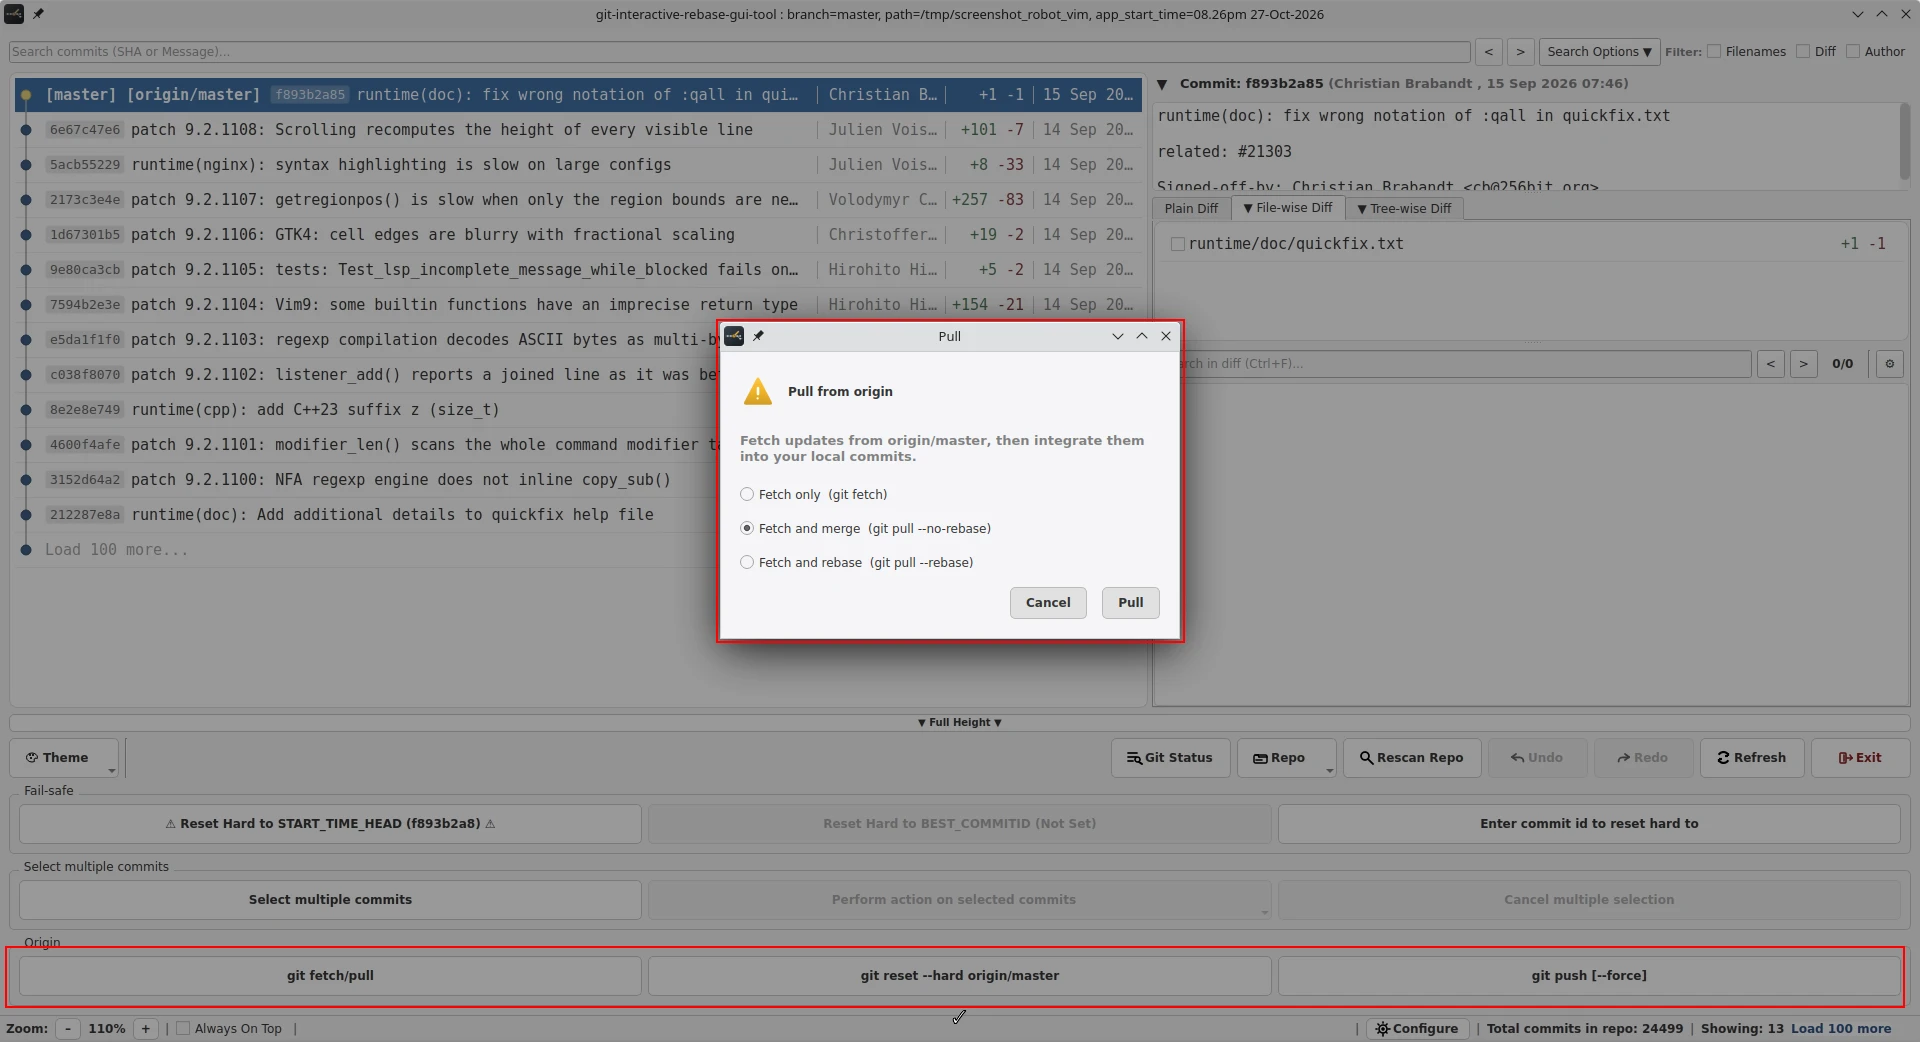
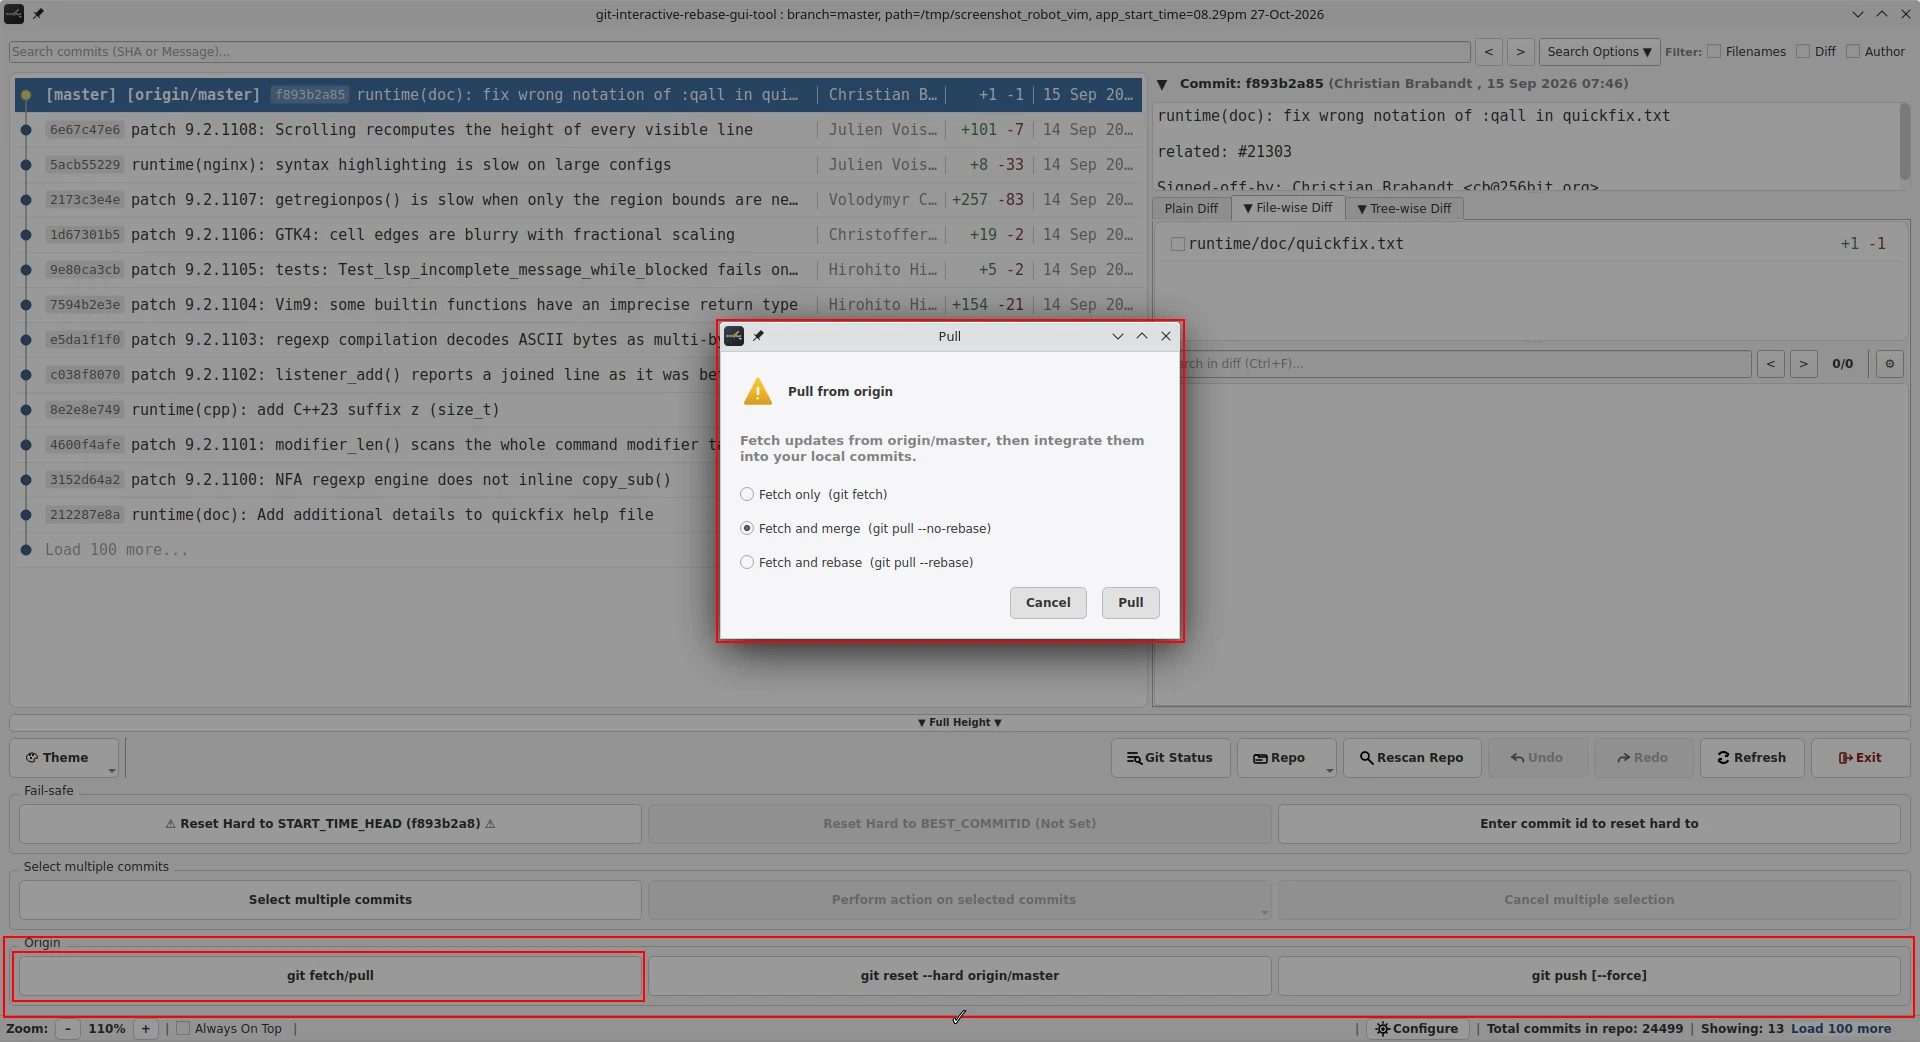
capture: origin-options.webp, push-dialog.webp

Changed region(s): [[0.0, 0.8906, 1.0, 0.9827]]

diff --git a/scenes/main.py b/scenes/main.py
@@ -37,7 +37,7 @@ REF_COMMIT = "f893b2a853e1559d51291a3731d6cd6df79f1a51"
 # One line per screenshot: (script, [images the script must produce]).
 
 SCENES = []
-'''
+#'''
 SCENES += [("rephrase-and-drop-commit.py", ["rephrase-and-drop-commit.png"])]
 SCENES += [("mark-commits.py", ["mark-commits.png"])]
 SCENES += [("tag-commit.py", ["tag-commit.png"])]
@@ -78,8 +78,8 @@ SCENES += [("fault-handling.py", ["fault-handling.png"])]
 SCENES += [("file-list-hover-toolbar.py", ["file-list-hover-toolbar.png"])]
 SCENES += [("main-menus.py", ["main-menus.png"])]
 SCENES += [("add-untracked-files.py", ["add-untracked-files.png"])]
-'''
 SCENES += [("origin-options.py", ["origin-options.png", "push-dialog.png"])]
+#'''
 
 # SCENES += [("test.py", ["test.png"])]
 
